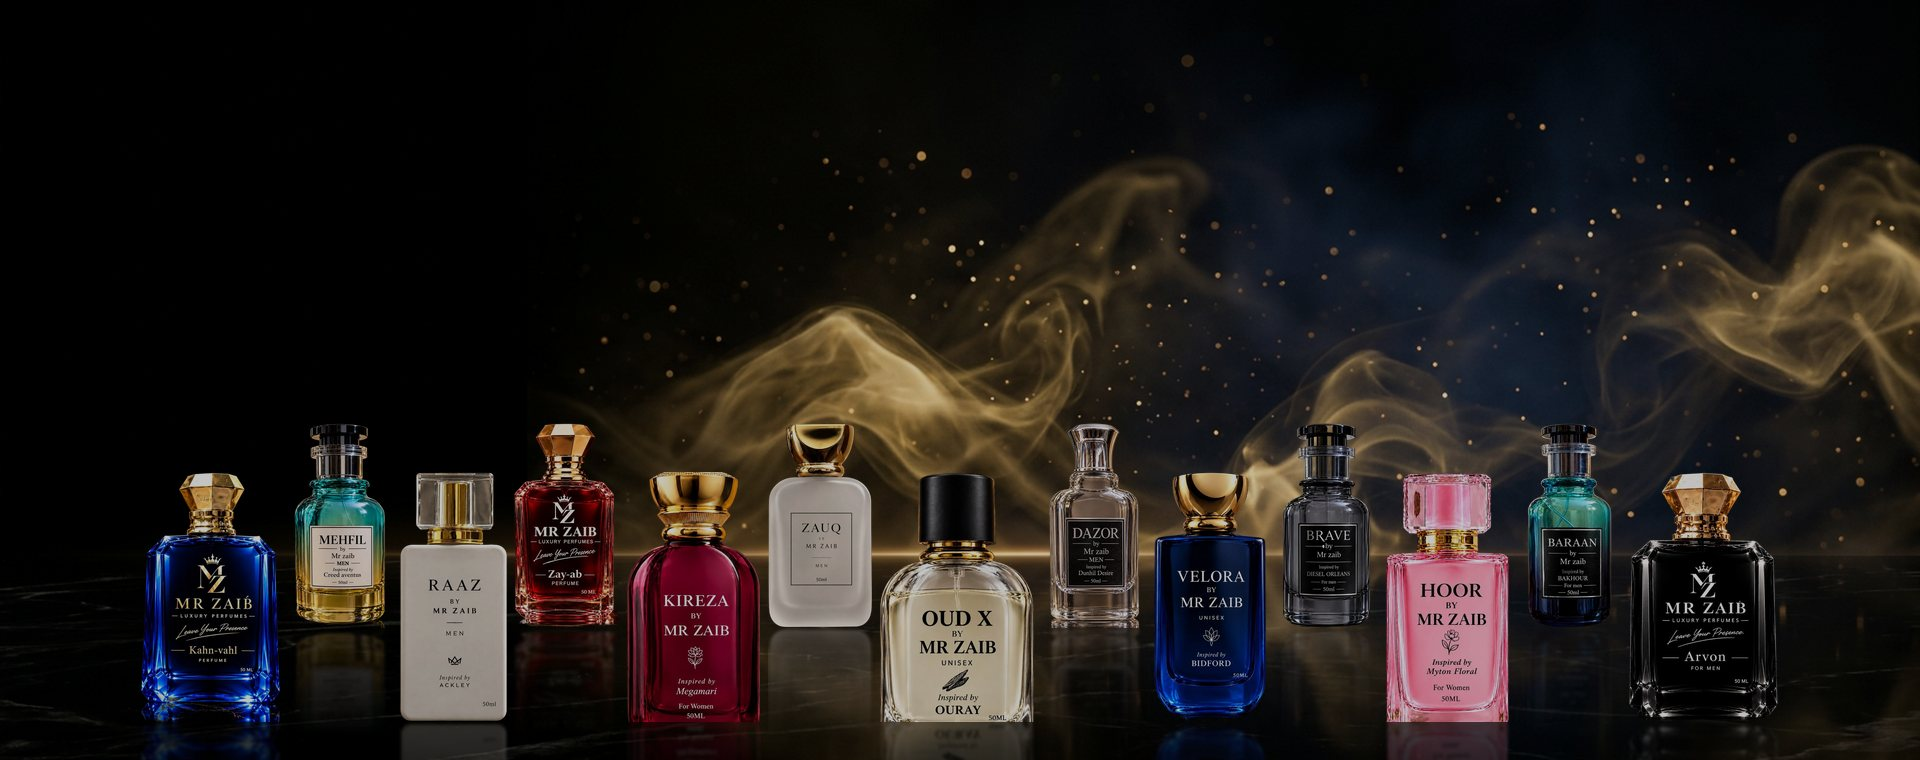
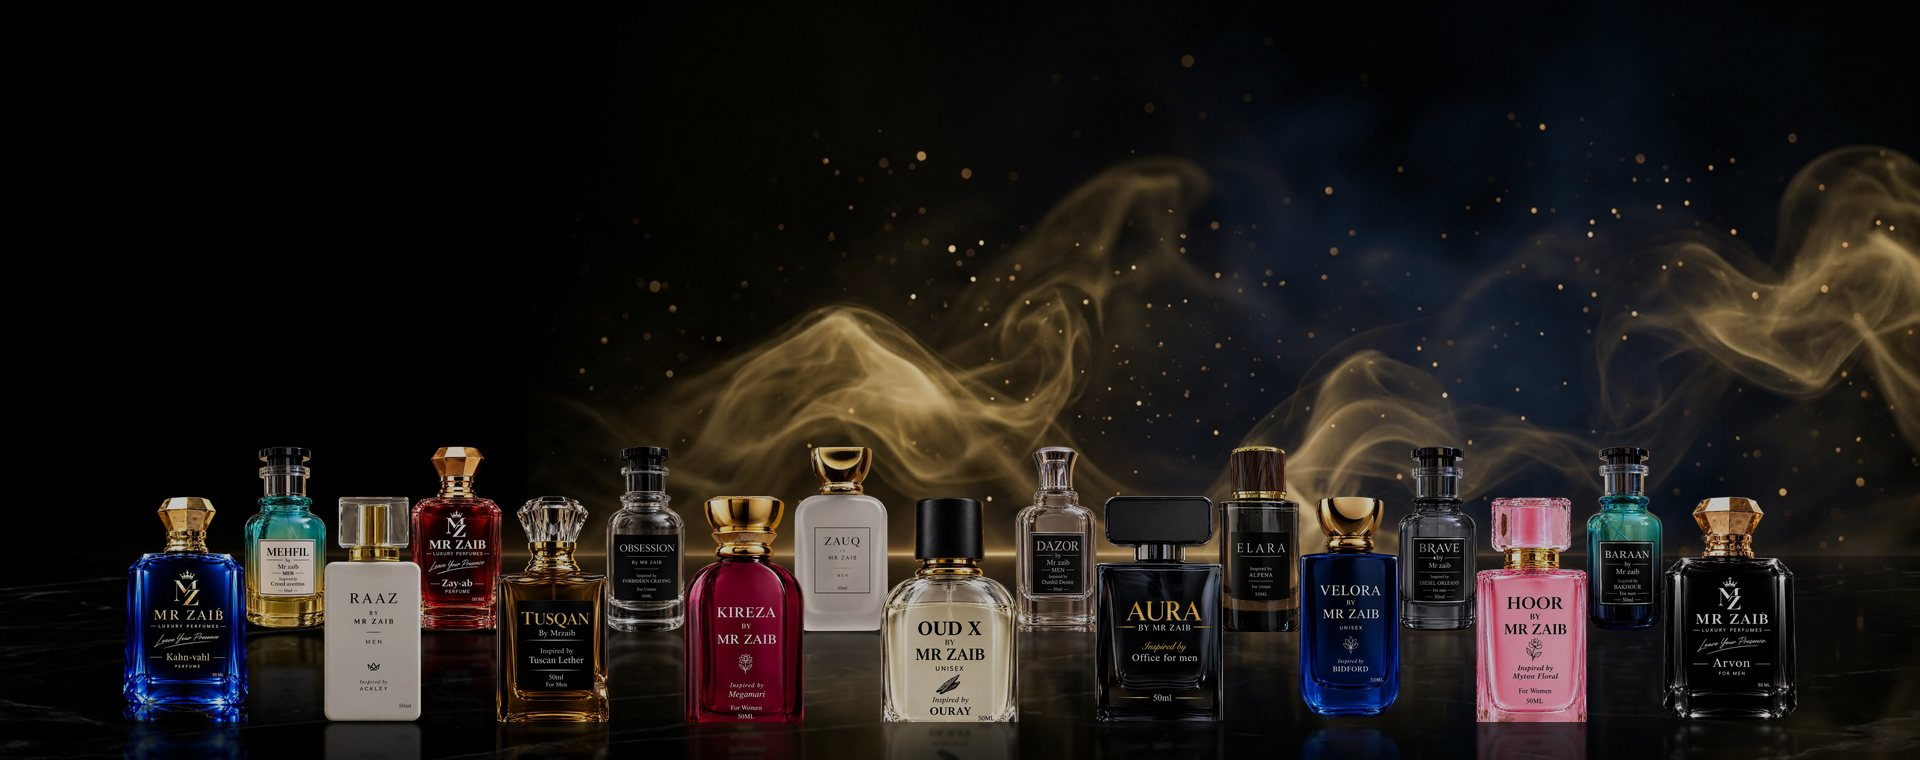
Home: hero slides 15-18 (Tusqan, Obsession, Elara, Aura), hero reset v4 (17 slides), promo band v8 17 bottles, Trusted bg 17 bottles, SEO text v5

Changed region(s): [[0.0625, 0.5447, 0.9375, 1.0]]

diff --git a/inc/home-defaults.php b/inc/home-defaults.php
@@ -6,7 +6,7 @@
  */
 
 function mrzaib_seo_default_intro() {
-	return '<strong>MR ZAIB Luxury Perfumes</strong> is a Pakistani perfume brand creating <strong>long lasting perfumes</strong> for men, women and unisex lovers. Our promise is simple: <em>Leave Your Presence</em>. Choose from thirteen signature 50ml fragrances: <strong>perfumes for men</strong> like Kahn-vahl, Zay-ab, RAAZ, ZAUQ, Mehfil, Dazor, Brave and Baraan, <strong>perfumes for women</strong> like Hoor and Kireza, and <strong>unisex perfumes</strong> like Arvon, Velora and OUD X, with prices from Rs. 2,000 and Cash on Delivery all over Pakistan. Whether you want a fresh everyday scent, an <strong>oud perfume</strong>, a bakhoor-style Arabic fragrance, a wedding perfume or a thoughtful gift, MR ZAIB has the <strong>best perfume in Pakistan</strong> for you.';
+	return '<strong>MR ZAIB Luxury Perfumes</strong> is a Pakistani perfume brand creating <strong>long lasting perfumes</strong> for men, women and unisex lovers. Our promise is simple: <em>Leave Your Presence</em>. Choose from seventeen signature 50ml fragrances: <strong>perfumes for men</strong> like Kahn-vahl, Zay-ab, RAAZ, ZAUQ, Mehfil, Dazor, Brave, Baraan, Tusqan and Aura, <strong>perfumes for women</strong> like Hoor and Kireza, and <strong>unisex perfumes</strong> like Arvon, Velora, OUD X, Obsession and Elara, with prices from Rs. 2,000 and Cash on Delivery all over Pakistan. Whether you want a fresh everyday scent, an <strong>office perfume</strong>, a <strong>leather perfume</strong>, a sweet <strong>vanilla perfume</strong>, an <strong>oud perfume</strong>, a bakhoor-style Arabic fragrance, a wedding perfume or a thoughtful gift, MR ZAIB has the <strong>best perfume in Pakistan</strong> for you.';
 }
 
 function mrzaib_seo_default_more() {
@@ -23,6 +23,8 @@ function mrzaib_seo_default_more() {
 		'<p>' . $p( 'dazor-perfume', 'Dazor perfume for men' ) . ', inspired by Dunhill Desire, is fresh and fruity with apple, lemon, bergamot and orange blossom, rose, teak wood and patchouli, and a smooth vanilla musk finish. A great daily perfume for office and university.</p>' .
 		'<p>' . $p( 'brave-perfume', 'Brave perfume for men' ) . ' is a juicy, fearless fragrance of lemon, mandarin, guava and peach, licorice and white flowers, and a creamy sandalwood, musk and cedar base. Perfect for summer and parties.</p>' .
 		'<p>' . $p( 'baraan-perfume', 'Baraan perfume for men' ) . ', inspired by Bakhour, brings the warmth of traditional bakhoor in amber, woods and vanilla with a soft floral fruity glow. A rich Arabic-style perfume for Eid, Jummah and weddings.</p>' .
+		'<p>' . $p( 'tusqan-perfume', 'Tusqan perfume for men' ) . ', inspired by Tuscan Leather, is a bold <strong>leather perfume</strong> of raspberry, saffron and thyme, olibanum and jasmine, on suede, leather, woods and amber. A luxurious evening and winter scent.</p>' .
+		'<p>' . $p( 'aura-perfume', 'Aura perfume for men' ) . ', inspired by Office for Men, is a clean <strong>office perfume for men</strong> of ambroxan, bergamot and orris root, with woods, ambergris, amber and jasmine over musk, patchouli and cashalox. Fresh and professional all day.</p>' .
 		'<h3>Best Long Lasting Perfumes for Women in Pakistan</h3>' .
 		'<p>' . $p( 'hoor-perfume', 'Hoor perfume for women' ) . ', inspired by Myton Floral, is a sweet fruity floral scent in a pink bottle: black currant, pineapple and red apple bloom into rose, freesia and peony over musk, iris and sandalwood.</p>' .
 		'<p>' . $p( 'kireza-perfume', 'Kireza perfume for women' ) . ', inspired by Megamari, is a bold, glamorous fragrance of raspberry, rose and black currant with a fresh marine heart and a musk, ambroxan and cedar base, made for parties, weddings and evenings out.</p>' .
@@ -30,6 +32,8 @@ function mrzaib_seo_default_more() {
 		'<p>' . $p( 'arvon-perfume', 'Arvon unisex perfume' ) . ' blends pineapple, red apple and spice with Moroccan rose, jasmine and iris, finishing on cacao, vanilla, white musk and amber.</p>' .
 		'<p>' . $p( 'velora-perfume', 'Velora unisex perfume' ) . ', inspired by Bidford, is a dark rose and leather scent: tomato leaf, spices and tuberose, dried rose and iris, on amber, metallic notes and leather.</p>' .
 		'<p>' . $p( 'oud-x-perfume', 'OUD X unisex oud perfume' ) . ', inspired by Ouray, blends bergamot and citrus with cinnamon and apple, drying down to ambergris, musk and rich woods, a modern oud-style fragrance for men and women.</p>' .
+		'<p>' . $p( 'obsession-perfume', 'Obsession unisex perfume' ) . ', inspired by Forbidden Craving, is a sweet <strong>vanilla amber perfume</strong>: blood orange, bergamot and cardamom, red apple, peach and rose, on vanilla absolute, amber, benzoin, sandalwood and musk.</p>' .
+		'<p>' . $p( 'elara-perfume', 'Elara unisex perfume' ) . ', inspired by Alpena, is a <strong>fresh citrus woody perfume</strong> of lemon, bergamot and grapefruit, thyme, jasmine and orchid, drying down to oakmoss, myrrh, cedar, sandalwood and musk. A clean everyday scent for men and women.</p>' .
 		'<h3>Shop Perfumes by Category</h3>' .
 		'<p>Explore <a href="' . esc_url( mrzaib_cat_link( 'men' ) ) . '">perfumes for men</a>, <a href="' . esc_url( mrzaib_cat_link( 'women' ) ) . '">perfumes for women</a> and <a href="' . esc_url( mrzaib_cat_link( 'unisex' ) ) . '">unisex perfumes</a>, traditional <a href="' . esc_url( mrzaib_cat_link( 'attar' ) ) . '">Attar</a>, and perfume <a href="' . esc_url( mrzaib_cat_link( 'tester' ) ) . '">Testers</a> to try a scent before buying the full bottle.</p>' .
 		'<h3>Easy Returns and Cash on Delivery</h3>' .
@@ -45,11 +49,11 @@ function mrzaib_seo_text_norm( $v ) {
 	return trim( preg_replace( '/\s+/u', ' ', $v ) );
 }
 
-/* SEO text v4 (13 perfumes): a saved Customizer value that is exactly an older theme text
+/* SEO text v5 (17 perfumes): a saved Customizer value that is exactly an older theme text
    (all earlier theme versions, compared in full) is cleared once, so the new text shows.
    Any text the admin edited, even partly, is left alone. */
 add_action( 'init', function () {
-	if ( (int) get_option( 'mrzaib_seo_text_v' ) >= 4 ) {
+	if ( (int) get_option( 'mrzaib_seo_text_v' ) >= 5 ) {
 		return;
 	}
 	$legacy = array(
@@ -62,7 +66,7 @@ add_action( 'init', function () {
 			remove_theme_mod( $mod );
 		}
 	}
-	update_option( 'mrzaib_seo_text_v', 4 );
+	update_option( 'mrzaib_seo_text_v', 5 );
 }, 20 );
 
 /** Theme icon file for feature N (1-4). */
@@ -106,7 +110,7 @@ function mrzaib_video_product( $n ) {
  * as real media (with previews) and can be picked again from Media.
  * Only fields still using the theme default (or empty) are changed.
  */
-define( 'MRZAIB_HOME_MEDIA_V', 10 );
+define( 'MRZAIB_HOME_MEDIA_V', 11 );
 
 function mrzaib_home_media_items() {
 	$items = array();
@@ -120,9 +124,9 @@ function mrzaib_home_media_items() {
 		$items[ 'hero_img_' . $i ] = array( 'assets/images/' . basename( strtok( $d[0], '?' ) ), $d[0], $tag );
 		$items[ 'hero_mob_' . $i ] = array( 'assets/images/' . basename( strtok( $d[1], '?' ) ), $d[1], $tag );
 	}
-	/* Third value = version tag: a new tag imports the updated file again (v7 = 13 bottles on marble riser, band background kept). */
-	$items['promo_img_d'] = array( 'assets/images/promo-band-desktop.jpg', MRZAIB_URI . '/assets/images/promo-band-desktop.jpg', 'v7' );
-	$items['promo_img_m'] = array( 'assets/images/promo-band-mobile.jpg', MRZAIB_URI . '/assets/images/promo-band-mobile.jpg', 'v7' );
+	/* Third value = version tag: a new tag imports the updated file again (v8 = 17 bottles on marble riser, band background kept). */
+	$items['promo_img_d'] = array( 'assets/images/promo-band-desktop.jpg', MRZAIB_URI . '/assets/images/promo-band-desktop.jpg', 'v8' );
+	$items['promo_img_m'] = array( 'assets/images/promo-band-mobile.jpg', MRZAIB_URI . '/assets/images/promo-band-mobile.jpg', 'v8' );
 	return $items;
 }
 
@@ -480,7 +484,7 @@ add_action( 'admin_init', function () {
  * replaced; the admin's own slide images are kept and moved after the 14 built-in slides.
  * Runs once automatically (MRZAIB_HERO_RESET_V) and from Appearance > MR ZAIB Setup.
  */
-define( 'MRZAIB_HERO_RESET_V', 3 ); // v2: collection slide removed, 13 perfume slides.
+define( 'MRZAIB_HERO_RESET_V', 4 ); // v4: 17 perfume slides (Tusqan, Obsession, Elara, Aura added).
 
 function mrzaib_is_theme_hero( $url ) {
 	$b = basename( (string) strtok( (string) $url, '?' ) );
@@ -495,7 +499,7 @@ function mrzaib_reset_hero_banners() {
 	require_once ABSPATH . 'wp-admin/includes/media.php';
 	require_once ABSPATH . 'wp-admin/includes/image.php';
 	$hd   = mrzaib_hero_defaults();
-	$old  = max( 1, (int) get_theme_mod( 'mrzaib_hero_count', 13 ) );
+	$old  = max( 1, (int) get_theme_mod( 'mrzaib_hero_count', 17 ) );
 	$own  = array(); // Admin's visible slides: moved after the built-in ones.
 	$hid  = array(); // Admin's slides beyond the slide count: kept, still hidden.
 	$last = MRZAIB_HERO_MAX;

diff --git a/inc/customizer.php b/inc/customizer.php
@@ -144,7 +144,7 @@ if ( ! defined( 'MRZAIB_VIDEO_MAX' ) ) {
 }
 if ( ! defined( 'MRZAIB_HERO_MAX' ) ) {
 	// 16, or more when the hero reset needed room to keep all of the admin's own slides.
-	define( 'MRZAIB_HERO_MAX', max( 16, (int) get_option( 'mrzaib_hero_max', 16 ) ) );
+	define( 'MRZAIB_HERO_MAX', max( 20, (int) get_option( 'mrzaib_hero_max', 20 ) ) );
 }
 
 /** Built-in hero slides (desktop, mobile, link, alt). */
@@ -164,8 +164,12 @@ function mrzaib_hero_defaults() {
 		12 => array( mrzaib_img( 'hero-12-desktop.jpg' ), mrzaib_img( 'hero-12-mobile.jpg' ), mrzaib_product_slug_link( 'dazor-perfume', 'men' ), 'Dazor long lasting fresh fruity perfume for men by MR ZAIB' ),
 		13 => array( mrzaib_img( 'hero-13-desktop.jpg' ), mrzaib_img( 'hero-13-mobile.jpg' ), mrzaib_product_slug_link( 'brave-perfume', 'men' ), 'Brave long lasting fresh fruity perfume for men by MR ZAIB' ),
 		14 => array( mrzaib_img( 'hero-14-desktop.jpg' ), mrzaib_img( 'hero-14-mobile.jpg' ), mrzaib_product_slug_link( 'baraan-perfume', 'men' ), 'Baraan long lasting amber woody bakhoor perfume for men by MR ZAIB' ),
+		15 => array( mrzaib_img( 'hero-15-desktop.jpg' ), mrzaib_img( 'hero-15-mobile.jpg' ), mrzaib_product_slug_link( 'tusqan-perfume', 'men' ), 'Tusqan long lasting leather saffron perfume for men by MR ZAIB inspired by Tuscan Leather' ),
+		16 => array( mrzaib_img( 'hero-16-desktop.jpg' ), mrzaib_img( 'hero-16-mobile.jpg' ), mrzaib_product_slug_link( 'obsession-perfume', 'unisex' ), 'Obsession long lasting sweet vanilla amber unisex perfume by MR ZAIB' ),
+		17 => array( mrzaib_img( 'hero-17-desktop.jpg' ), mrzaib_img( 'hero-17-mobile.jpg' ), mrzaib_product_slug_link( 'elara-perfume', 'unisex' ), 'Elara long lasting fresh citrus woody unisex perfume by MR ZAIB' ),
+		18 => array( mrzaib_img( 'hero-18-desktop.jpg' ), mrzaib_img( 'hero-18-mobile.jpg' ), mrzaib_product_slug_link( 'aura-perfume', 'men' ), 'Aura long lasting fresh woody office perfume for men by MR ZAIB' ),
 	);
-	unset( $d[3] ); // Collection slide removed by user (2026-11-18): 13 perfume slides only.
+	unset( $d[3] ); // Collection slide removed by user (2026-11-18). 17 perfume slides (Tusqan, Obsession, Elara, Aura added 2026-11-21).
 	return array_combine( range( 1, count( $d ) ), array_values( $d ) );
 }
 
@@ -270,13 +274,13 @@ add_action( 'init', function () {
 	}
 	$c = get_theme_mod( 'mrzaib_hero_count' );
 	if ( false === $c || in_array( (int) $c, array( 3, 5, 7 ), true ) ) {
-		set_theme_mod( 'mrzaib_hero_count', 13 );
+		set_theme_mod( 'mrzaib_hero_count', 17 );
 	}
 	update_option( 'mrzaib_hero_v', '14' );
 } );
 
 function mrzaib_hero_count() {
-	return max( 1, min( MRZAIB_HERO_MAX, (int) get_theme_mod( 'mrzaib_hero_count', 13 ) ) );
+	return max( 1, min( MRZAIB_HERO_MAX, (int) get_theme_mod( 'mrzaib_hero_count', 17 ) ) );
 }
 
 /** Slides to render: [desktop, mobile, link, alt]; slides without a desktop image are skipped. */
